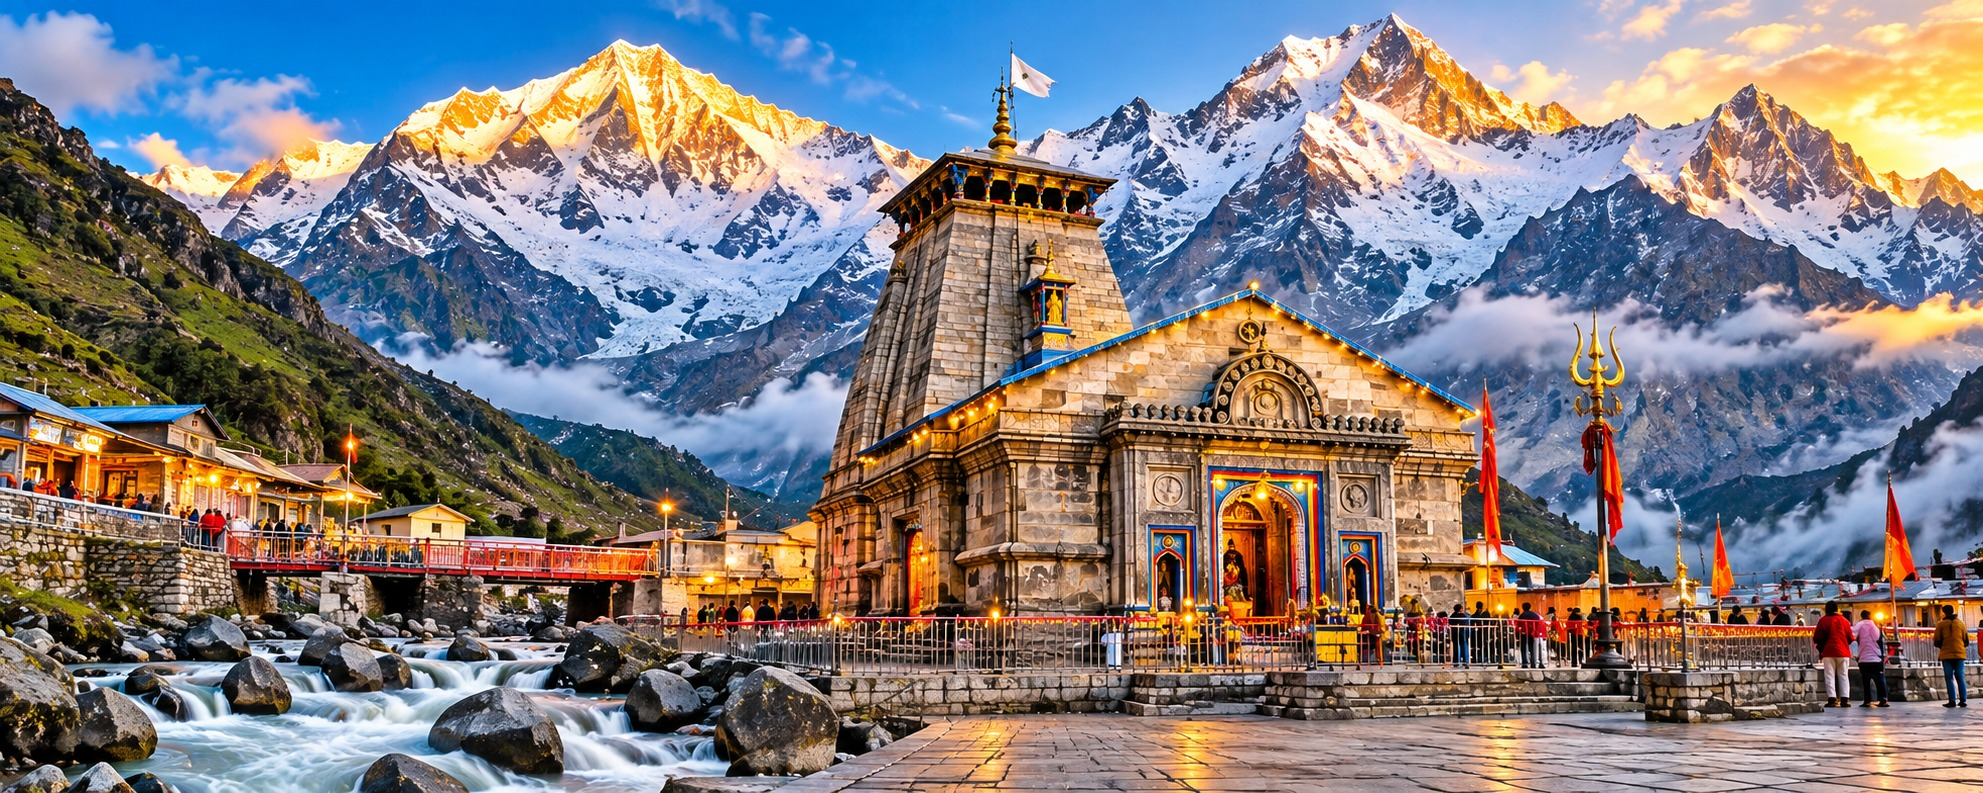
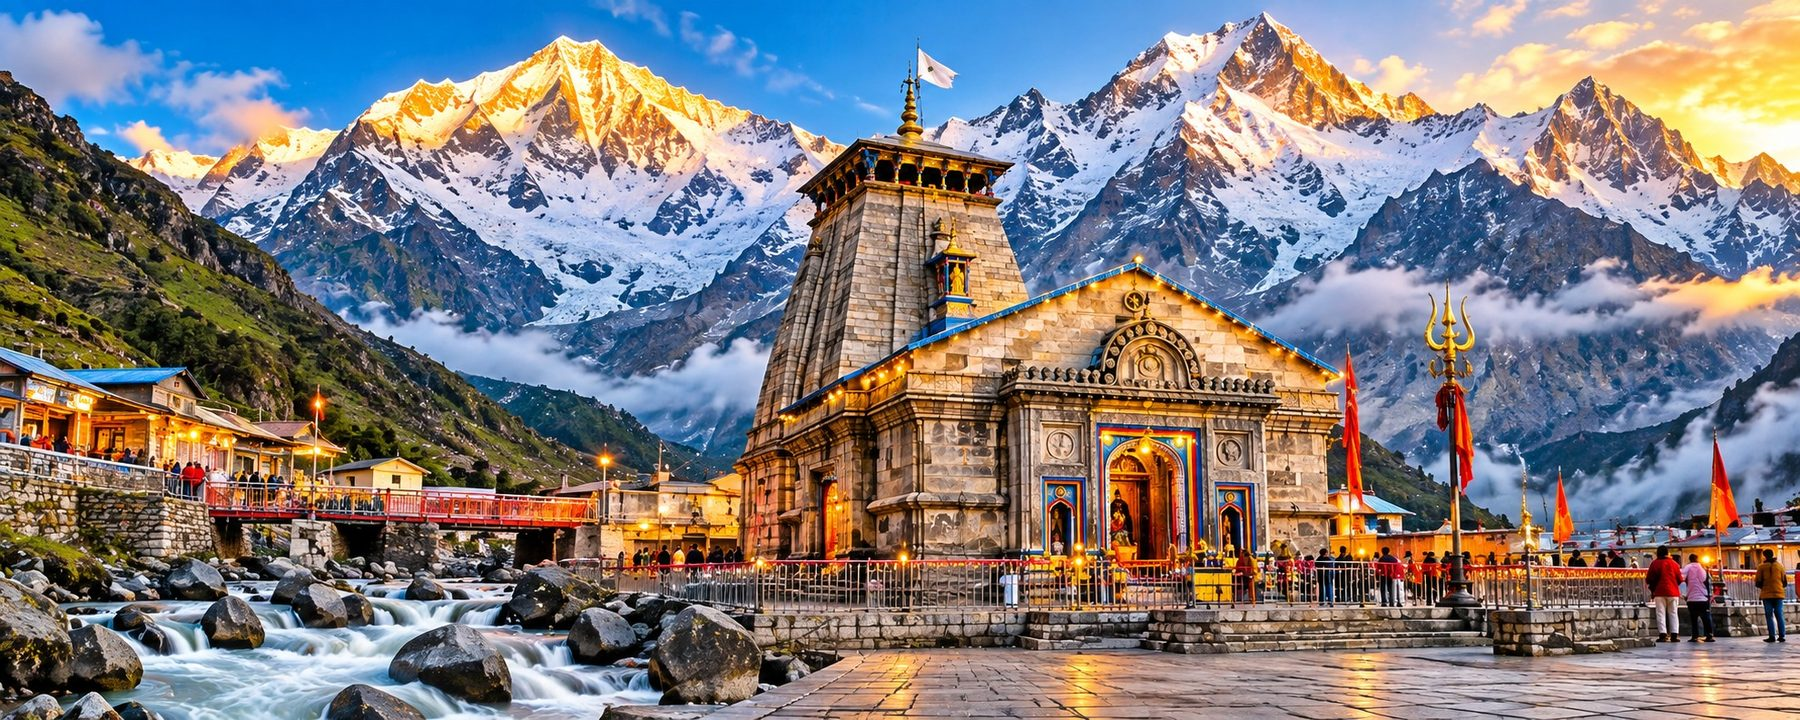
Add files via upload

diff --git a/index.html b/index.html
@@ -273,7 +273,7 @@ img{max-width:100%;height:auto}
 </div></div>
 
 <section class="about" id="about"><div class="container about-grid">
-<div class="about-img"><img src="https://images.unsplash.com/photo-1593181629936-11c609b8db9b?auto=format&fit=crop&w=1100&q=85" alt="Uttarakhand mountain travel" onerror="this.onerror=null;this.src=\'assets/doon-logo.jpg\';"><div class="experience"><strong>Dehradun Based</strong><br>Travel service across Uttarakhand & India</div></div>
+<div class="about-img"><img src="assets/taxi-booking.jpg" alt="Uttarakhand mountain travel" onerror="this.onerror=null;this.src=\'assets/doon-logo.jpg\';"><div class="experience"><strong>Dehradun Based</strong><br>Travel service across Uttarakhand & India</div></div>
 <div class="about-copy"><span class="kicker">Welcome to Doon Tour and Travel</span><h2>Your trusted travel partner for every journey.</h2><p>We provide professional travel, tourism and transportation services for individuals, couples, families, groups and corporate clients. From a local taxi to a complete multi-day tour, we help plan your journey around your requirements.</p>
 <div class="checks"><div><i class="fa-solid fa-circle-check"></i> Experienced Drivers</div><div><i class="fa-solid fa-circle-check"></i> Clean Vehicles</div><div><i class="fa-solid fa-circle-check"></i> Transparent Pricing</div><div><i class="fa-solid fa-circle-check"></i> Customized Travel</div><div><i class="fa-solid fa-circle-check"></i> 24×7 Assistance</div><div><i class="fa-solid fa-circle-check"></i> Local Expertise</div></div>
 <a class="btn blue" href="#quote">Plan My Journey <i class="fa-solid fa-arrow-right"></i></a></div>
@@ -337,7 +337,7 @@ img{max-width:100%;height:auto}
 <a class="fleet-book" href="https://wa.me/917906042463?text=Hello%2C%20I%20want%20to%20book%20Innova%20Crysta.">Book Now <i class="fa-solid fa-arrow-right"></i></a>
 </div></div>
 <div class="vehicle">
-<img src="assets/tempo-traveller.jpg" alt="Tempo Traveller" data-admin-key="fleet-tempo-traveller">
+<img src="assets/destination-north-india.webp" alt="Tempo Traveller" data-admin-key="fleet-tempo-traveller">
 <div class="vehicle-body"><h3>Tempo Traveller</h3>
 <div class="vehicle-meta"><span><i class="fa-solid fa-user-group"></i> 12–17 Passengers</span><span><i class="fa-solid fa-suitcase"></i> Luggage</span></div>
 <p>For groups, tours and pilgrimage travel.</p>
@@ -348,8 +348,8 @@ img{max-width:100%;height:auto}
 <section class="destinations" id="packages"><div class="container"><div class="section-head"><span class="kicker">Explore with us</span><h2>Popular Destinations</h2><p>From weekend hill escapes to spiritual journeys and North India tours.</p></div>
 <div class="dest-grid">
 <div class="dest"><img src="https://images.unsplash.com/photo-1605649487212-47bdab064df7?auto=format&fit=crop&w=800&q=85" alt="Mussoorie" onerror="this.onerror=null;this.src=\'assets/doon-logo.jpg\';" data-admin-key="destination-1"><div class="dest-info"><h3>Mussoorie</h3><small>Queen of the Hills</small></div></div>
-<div class="dest"><img src="https://images.unsplash.com/photo-1544735716-392fe2489ffa?auto=format&fit=crop&w=800&q=85" alt="Rishikesh" onerror="this.onerror=null;this.src=\'assets/doon-logo.jpg\';" data-admin-key="destination-2"><div class="dest-info"><h3>Rishikesh</h3><small>Yoga • Ganga • Adventure</small></div></div>
-<div class="dest"><img src="https://images.unsplash.com/photo-1626621341517-bbf3d9990a23?auto=format&fit=crop&w=800&q=85" alt="Kedarnath" onerror="this.onerror=null;this.src=\'assets/doon-logo.jpg\';" data-admin-key="gallery-kedarnath"><div class="dest-info"><h3>Kedarnath</h3><small>Sacred Himalayan Journey</small></div></div>
+<div class="dest"><img src="assets/destination-rishikesh.jpg" alt="Rishikesh" onerror="this.onerror=null;this.src=\'assets/doon-logo.jpg\';" data-admin-key="destination-2"><div class="dest-info"><h3>Rishikesh</h3><small>Yoga • Ganga • Adventure</small></div></div>
+<div class="dest"><img src="assets/destination-kedarnath.png" alt="Kedarnath" onerror="this.onerror=null;this.src=\'assets/doon-logo.jpg\';" data-admin-key="gallery-kedarnath"><div class="dest-info"><h3>Kedarnath</h3><small>Sacred Himalayan Journey</small></div></div>
 <div class="dest"><img src="https://images.unsplash.com/photo-1564507592333-c60657eea523?auto=format&fit=crop&w=800&q=85" alt="North India tour" onerror="this.onerror=null;this.src=\'assets/doon-logo.jpg\';" data-admin-key="destination-3"><div class="dest-info"><h3>North India</h3><small>Delhi • Agra • Jaipur & More</small></div></div>
 </div></div></section>
 
